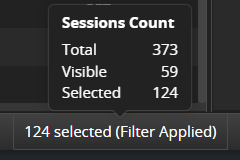
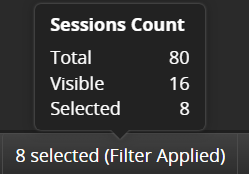
docs: updates in the status bar (#409)
* docs: rules coun in status bar

* add info about the port state in status bar'

* update screenshot

diff --git a/user-guide/status-bar.md b/user-guide/status-bar.md
@@ -9,11 +9,11 @@ previous_url: /user-guide/connections, /user-guide/connections-field
 
 # Status Bar
 
-The **Status Bar** section is located at the bottom-left corner of Fiddler Everywhere and contains information about the state of the connection, the network configuration, the traffic sources, and session count info.
+The **Status Bar** section is located at the bottom-left corner of Fiddler Everywhere. It contains information about the state of the connection, the network configuration, the traffic sources, and session count info.
 
 The section pops up on mouse interaction and lists the following information:
 
-- **Connection Status***&mdash;Shows the state of the network that provides the Internet connectivity.
+- **Connection Status**&mdash;Shows the state of the network that provides the Internet connectivity.
 
 - **Host**&mdash;Outputs the machine's hostname that Fiddler Everywhere runs on.
 
@@ -21,12 +21,20 @@ The section pops up on mouse interaction and lists the following information:
 
 - **Machine IPs**&mdash;A list of the IPv6 and IPv4 addresses of the active network adapters on the machine that hosts Fiddler Everywhere.
 
-![The connection status section](../images/status-bar/connection-details.png)
+    ![The connection status section](../images/status-bar/connection-details.png)
 
 - **Traffic Sources**&mdash;A list of all available Fiddler Everywhere traffic sources that highlights the active ones.
 
-![The connection status section](../images/status-bar/traffic-sources.png)
+    ![The connection status section](../images/status-bar/traffic-sources.png)
+
+- **Fiddler Port State**&mdash;Indicates if the Fiddler Everywhere proxy port is opened/closed for remote connections. You can control the state through the **Settings > Connections > Allow remote devices to connect** option.
+
+    ![State of the Fiddler port](../images/status-bar/remote-connections-status.png)
+
+- **Rules Count**&mdash;A popup that shows counters of all enabled rules.
+
+    ![The rules count section](../images/status-bar/rules-count.png)
 
 - **Sessions Count**&mdash;A popup that shows live counters of **total** captured, **visible** (counts only the non-filtered) and **selected** sessions.
 
-![The sessions count section](../images/status-bar/sessions-count.png)
+    ![The sessions count section](../images/status-bar/sessions-count.png)
